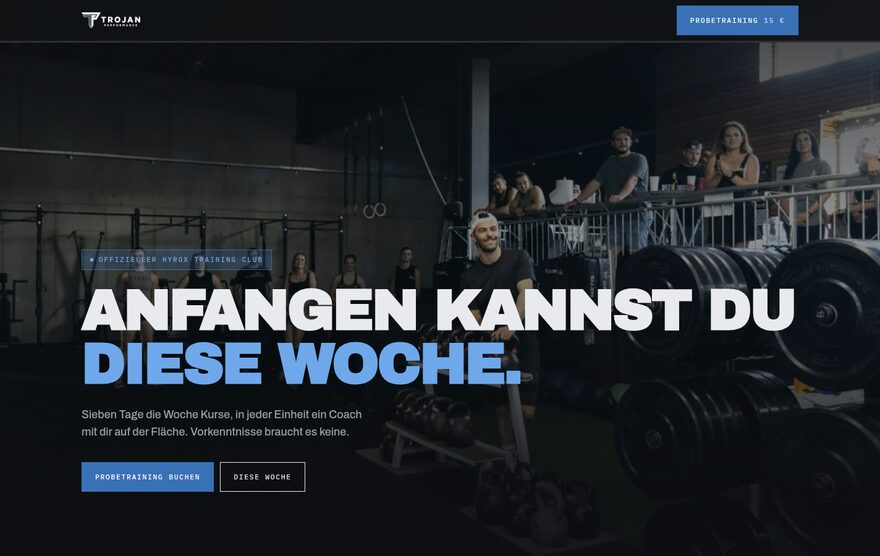
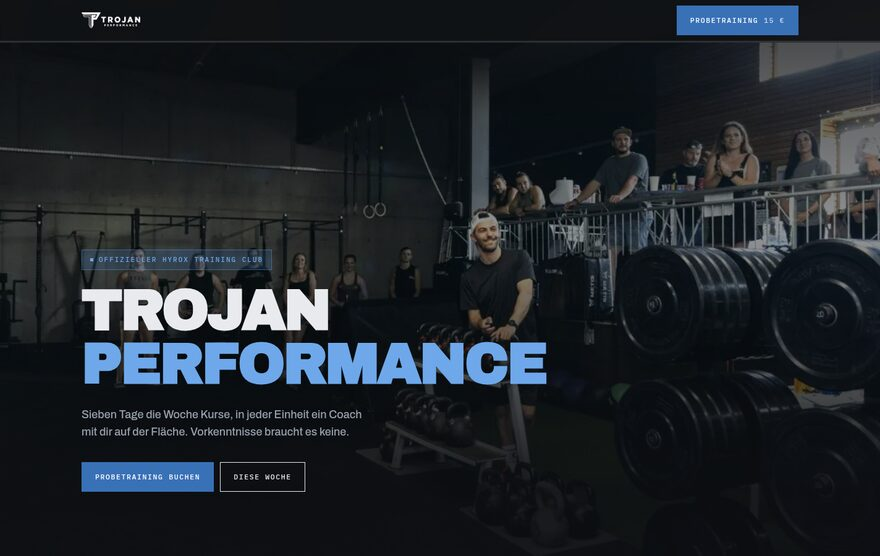
puls: der Name steht in der Bühne, der Preisabsatz liest sich besser
Statt einer Aussage steht jetzt die Wortmarke als Überschrift, zweizeilig,
Performance in Blau. Die Schriftgrösse ist dabei an das Wort gebunden statt an
einen für einen Satz gedachten Wert: "Performance" ist elf Zeichen in Archivo
Black und braucht bei 12,2vw auf einem 360er Bildschirm 359 px bei 320 px Platz.
Gemessen, nicht geschätzt — die Überlaufmessung sieht das nicht, weil
overflow-x:hidden auf dem Körper es verschluckt. Bei 10,4vw passt es überall
mit Rand: 306 zu 320, 331 zu 350, 652 zu 728.

Der Preisabsatz sagt jetzt zuerst, wofür die Zahl gilt, und dann, wofür sie
steht, statt beides als Aufzählung nebeneinanderzustellen.

Claude-Session: https://claude.ai/code/session_011seyKRZKnHmVqc44yjkGAQ

Changed region(s): [[0.092, 0.5198, 0.9205, 0.7032]]

diff --git a/puls/index.html b/puls/index.html
@@ -198,7 +198,11 @@ h1 em,h2 em{font-style:normal;color:var(--blau-hoch)}
 .etikett{display:inline-flex;align-items:center;gap:9px;color:var(--blau-hoch);
   padding:8px 14px;background:rgba(57,113,183,.2);box-shadow:inset 0 0 0 1px rgba(110,168,234,.4)}
 .etikett b{display:block;width:5px;height:5px;background:currentColor;flex:none}
-.hero h1{margin-top:clamp(14px,2vw,22px)}
+/* Der Name füllt die Breite, statt in der für einen Satz gedachten Grösse zu
+   stehen: seit hier die Wortmarke steht und kein Satz mehr, ist die Zeile so
+   breit wie das Wort. 12.2vw hält „Performance" auch auf 360 px einzeilig. */
+.hero h1{margin-top:clamp(14px,2vw,22px);font-size:clamp(30px,10.4vw,92px);line-height:.94}
+@media(max-width:430px){.hero h1{font-size:10.4vw}}
 .knoepfe{display:flex;flex-wrap:wrap;gap:10px;margin-top:clamp(22px,3vw,34px)}
 @media(max-width:430px){.knoepfe .btn{flex:1 1 100%}}
 
@@ -398,7 +402,7 @@ h1 em,h2 em{font-style:normal;color:var(--blau-hoch)}
     <!-- „So empfiehlt es das Gym" stand hier und redete auf der eigenen Seite in
          der dritten Person über den Betreiber. Die Zeile ist weg; die Angaben,
          die sie trug, stehen als Tatsachen da. -->
-    <h1>Anfangen kannst du<br><em>diese Woche.</em></h1>
+    <h1>Trojan<br><em>Performance</em></h1>
     <p class="lead">Sieben Tage die Woche Kurse, in jeder Einheit ein Coach mit dir auf
       der Fläche. Vorkenntnisse braucht es keine.</p>
     <div class="knoepfe">
@@ -454,10 +458,10 @@ h1 em,h2 em{font-style:normal;color:var(--blau-hoch)}
   <div class="huelle">
     <p class="kopfzeile mono zug">Preise</p>
     <p class="preis-zahl zug">150 <small>€ im Monat</small></p>
-    <p class="lead zug v1">Drei Einheiten pro Woche, keine Einschreibgebühr; mit zwölf
-      Monaten Bindung 130 €.</p>
-    <p class="lead zug v1">Empfohlen für den Einstieg: zwei Einheiten für die Kraft, eine
-      für die Ausdauer. Nicht das billigste Gym der Stadt, dafür sparen wir nicht an
+    <p class="lead zug v1">Für drei Einheiten pro Woche, keine Einschreibgebühr, der
+      Kraftaufbauplan ist dabei. Mit zwölf Monaten Bindung sind es 130 €.</p>
+    <p class="lead zug v1">So ist der Einstieg gedacht: zwei Einheiten für die Kraft,
+      eine für die Ausdauer. Nicht das billigste Gym der Stadt, dafür sparen wir nicht an
       Betreuung, nicht an Zeit und nicht an Platz im Kurs.</p>
     <!-- Alles Weitere ist nicht weg, es steht nur nicht vor der einen Zahl,
          wegen der die meisten hier sind. -->

diff --git a/src/trojan-T-puls.src.html b/src/trojan-T-puls.src.html
@@ -196,7 +196,11 @@ h1 em,h2 em{font-style:normal;color:var(--blau-hoch)}
 .etikett{display:inline-flex;align-items:center;gap:9px;color:var(--blau-hoch);
   padding:8px 14px;background:rgba(57,113,183,.2);box-shadow:inset 0 0 0 1px rgba(110,168,234,.4)}
 .etikett b{display:block;width:5px;height:5px;background:currentColor;flex:none}
-.hero h1{margin-top:clamp(14px,2vw,22px)}
+/* Der Name füllt die Breite, statt in der für einen Satz gedachten Grösse zu
+   stehen: seit hier die Wortmarke steht und kein Satz mehr, ist die Zeile so
+   breit wie das Wort. 12.2vw hält „Performance" auch auf 360 px einzeilig. */
+.hero h1{margin-top:clamp(14px,2vw,22px);font-size:clamp(30px,10.4vw,92px);line-height:.94}
+@media(max-width:430px){.hero h1{font-size:10.4vw}}
 .knoepfe{display:flex;flex-wrap:wrap;gap:10px;margin-top:clamp(22px,3vw,34px)}
 @media(max-width:430px){.knoepfe .btn{flex:1 1 100%}}
 
@@ -396,7 +400,7 @@ h1 em,h2 em{font-style:normal;color:var(--blau-hoch)}
     <!-- „So empfiehlt es das Gym" stand hier und redete auf der eigenen Seite in
          der dritten Person über den Betreiber. Die Zeile ist weg; die Angaben,
          die sie trug, stehen als Tatsachen da. -->
-    <h1>Anfangen kannst du<br><em>diese Woche.</em></h1>
+    <h1>Trojan<br><em>Performance</em></h1>
     <p class="lead">Sieben Tage die Woche Kurse, in jeder Einheit ein Coach mit dir auf
       der Fläche. Vorkenntnisse braucht es keine.</p>
     <div class="knoepfe">
@@ -452,10 +456,10 @@ h1 em,h2 em{font-style:normal;color:var(--blau-hoch)}
   <div class="huelle">
     <p class="kopfzeile mono zug">Preise</p>
     <p class="preis-zahl zug">150 <small>€ im Monat</small></p>
-    <p class="lead zug v1">Drei Einheiten pro Woche, keine Einschreibgebühr; mit zwölf
-      Monaten Bindung 130 €.</p>
-    <p class="lead zug v1">Empfohlen für den Einstieg: zwei Einheiten für die Kraft, eine
-      für die Ausdauer. Nicht das billigste Gym der Stadt, dafür sparen wir nicht an
+    <p class="lead zug v1">Für drei Einheiten pro Woche, keine Einschreibgebühr, der
+      Kraftaufbauplan ist dabei. Mit zwölf Monaten Bindung sind es 130 €.</p>
+    <p class="lead zug v1">So ist der Einstieg gedacht: zwei Einheiten für die Kraft,
+      eine für die Ausdauer. Nicht das billigste Gym der Stadt, dafür sparen wir nicht an
       Betreuung, nicht an Zeit und nicht an Platz im Kurs.</p>
     <!-- Alles Weitere ist nicht weg, es steht nur nicht vor der einen Zahl,
          wegen der die meisten hier sind. -->
